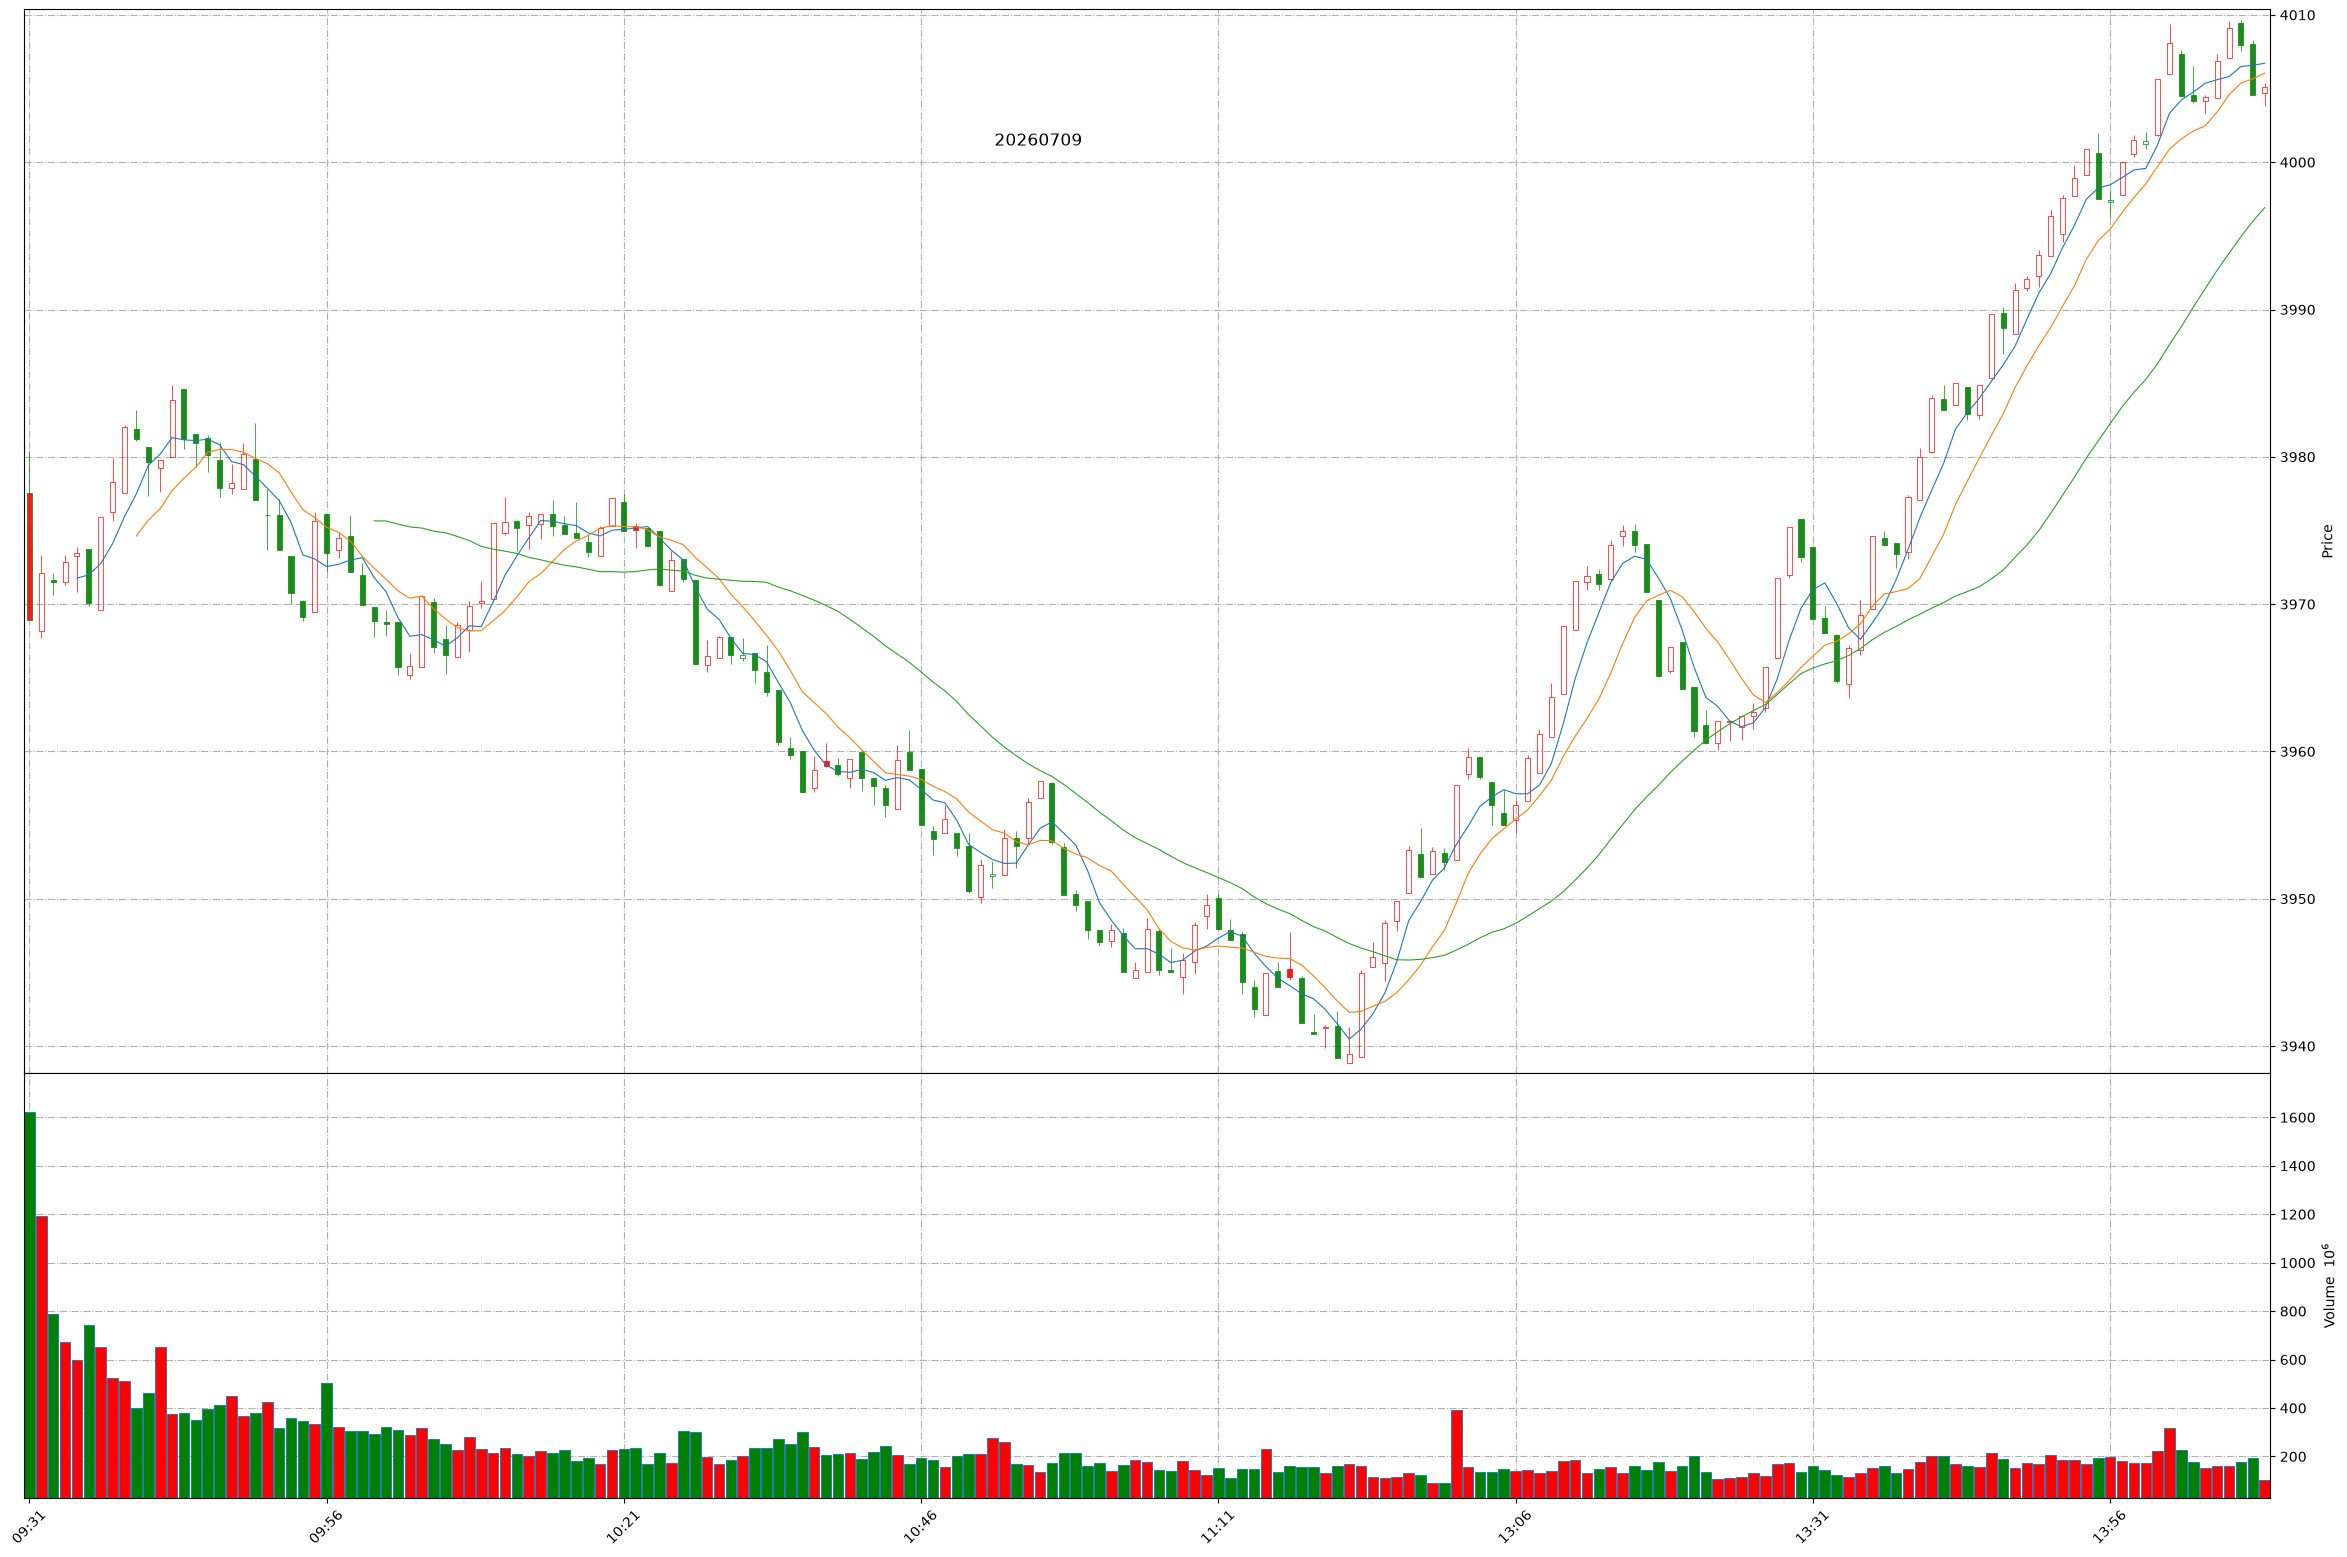
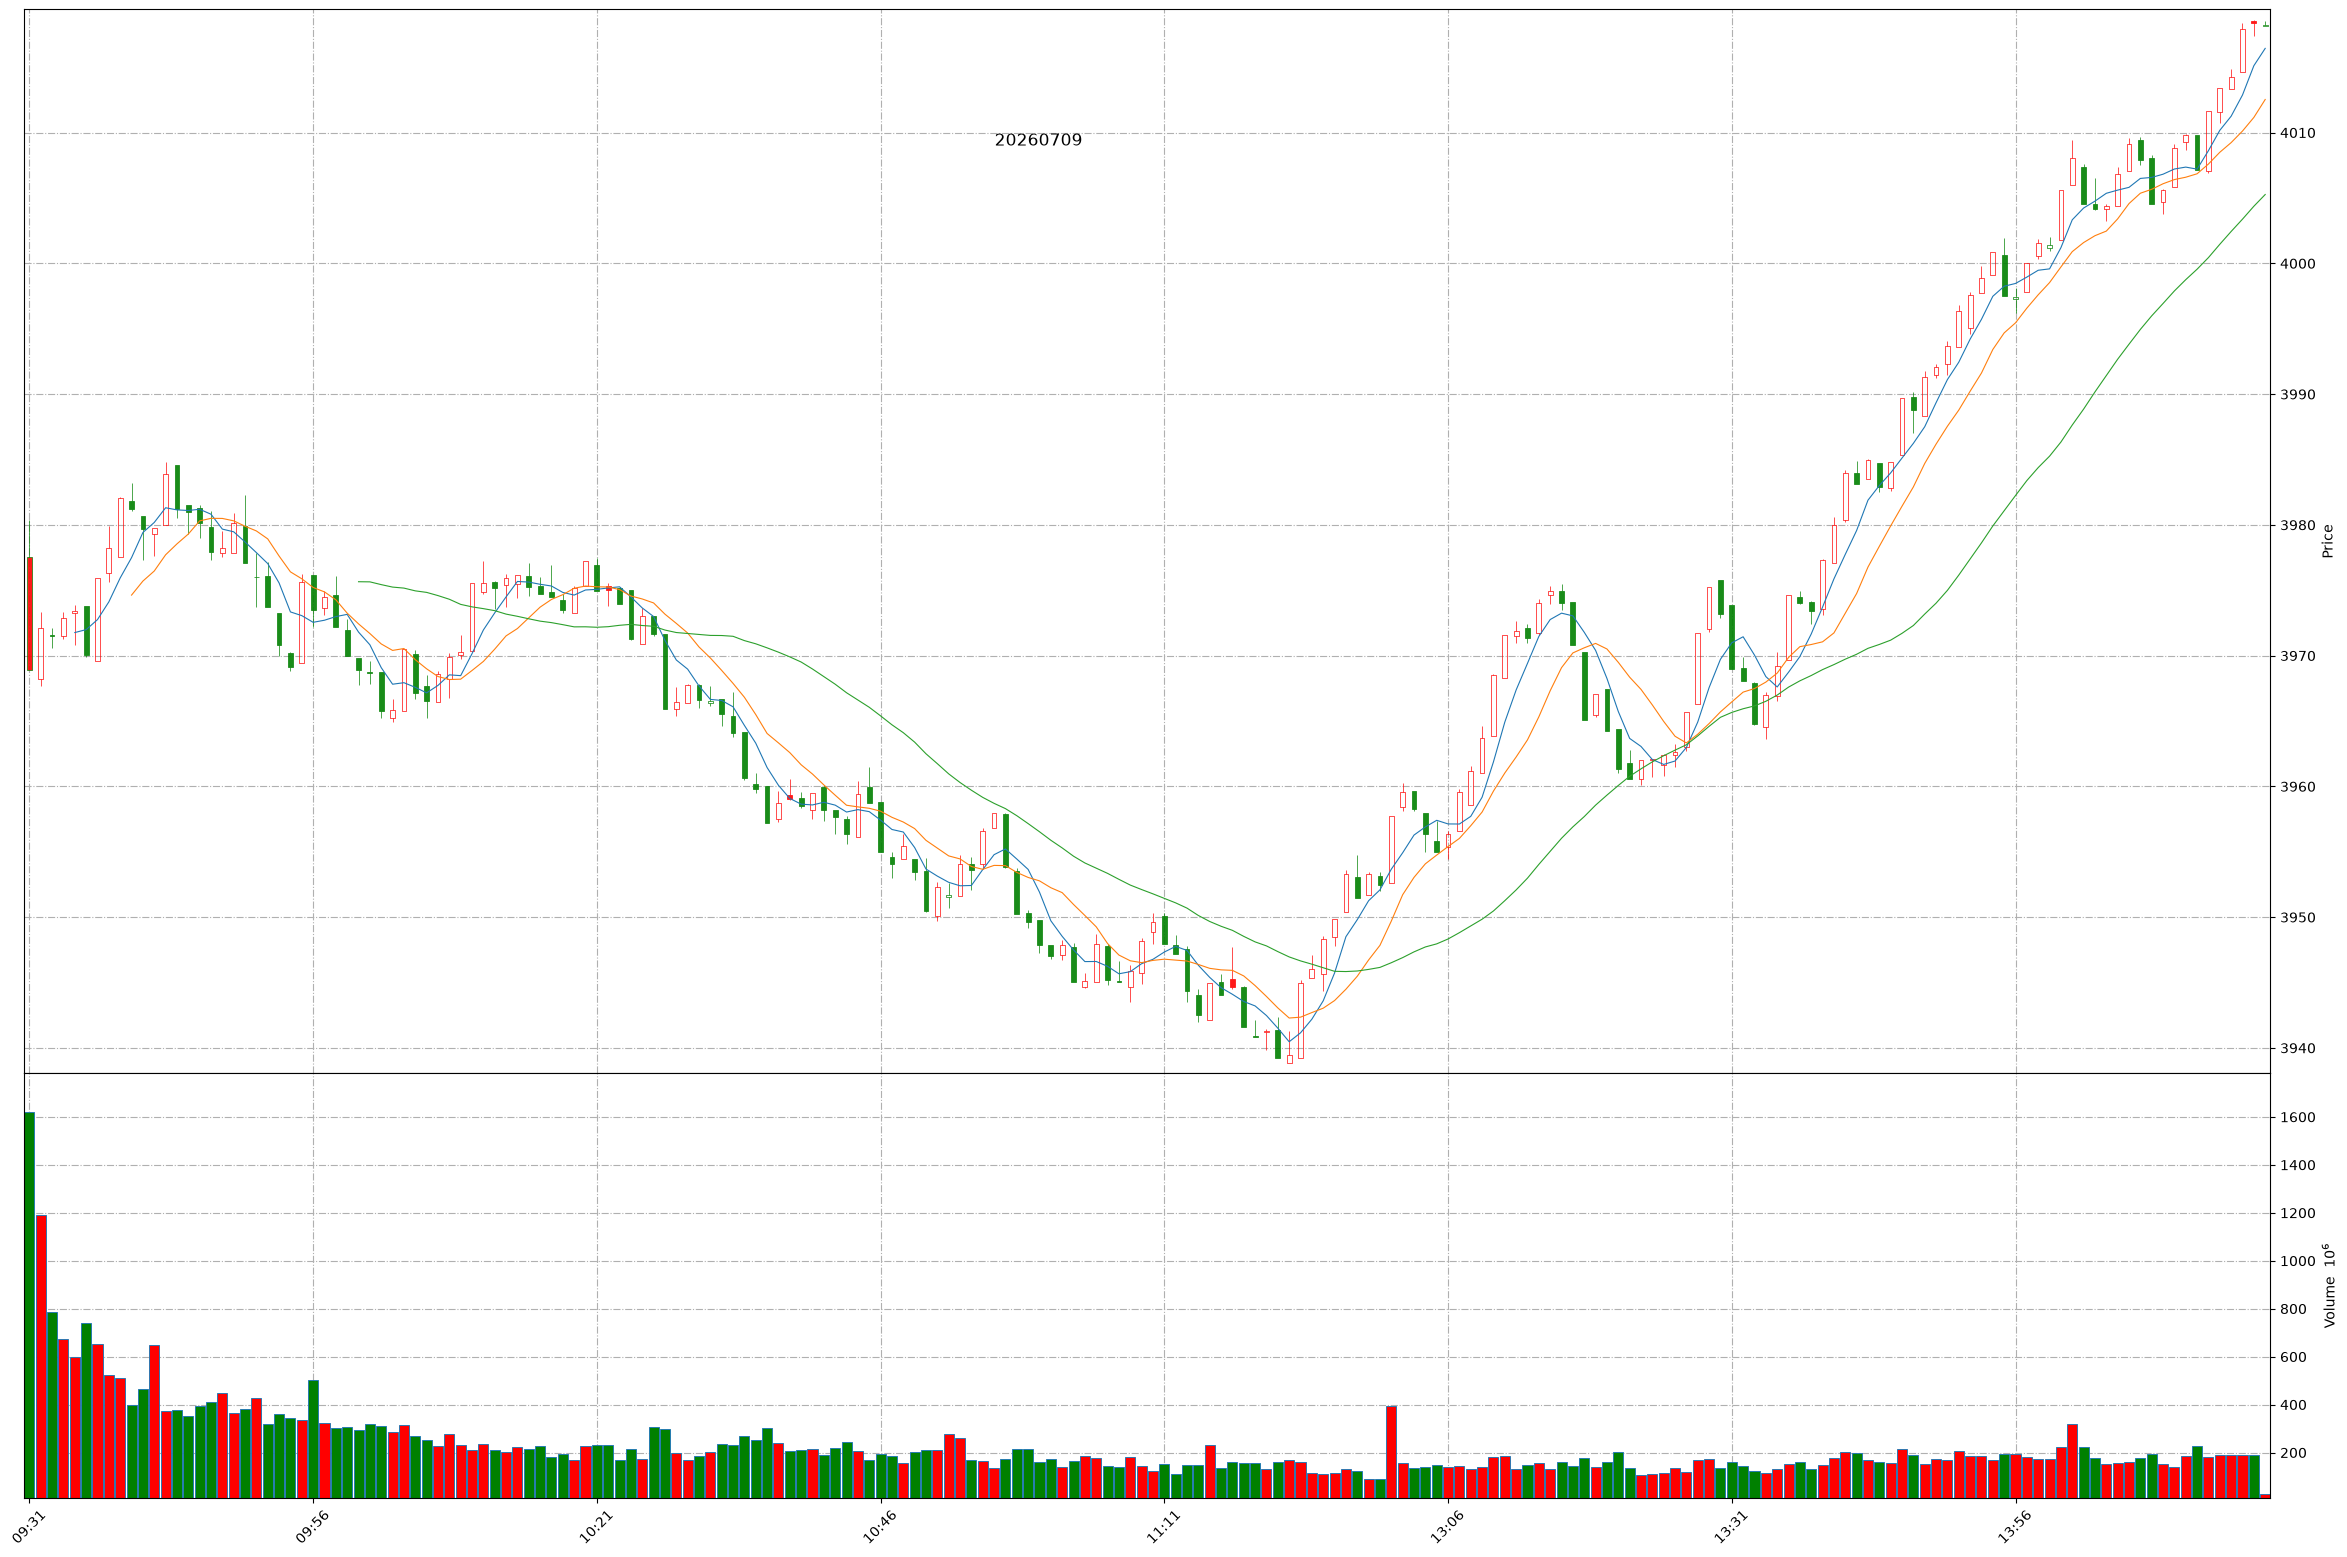
Github action update at 2026-07-09 14:17:26.

Changed region(s): [[0.0, 0.2466, 0.8398, 0.6782], [0.0, 0.8324, 0.9642, 0.9865], [0.8398, 0.0308, 0.9642, 0.2466]]

diff --git a/README.md b/README.md
@@ -1,11 +1,11 @@
 
 # Daily-A-share-market-quotes 每日 A 股指数（5min 更新）- 20260709
 
-### 上证指数 20260709 14:13
+### 上证指数 20260709 14:17
 ![](./fig/2026/7/20260709-sh000001.png)
 
-### 深证成指 20260709 14:13
+### 深证成指 20260709 14:17
 ![](./fig/2026/7/20260709-sz399001.png)
 
-### 北证50 20260709 14:13
+### 北证50 20260709 14:17
 ![](./fig/2026/7/20260709-bj899050.png)
